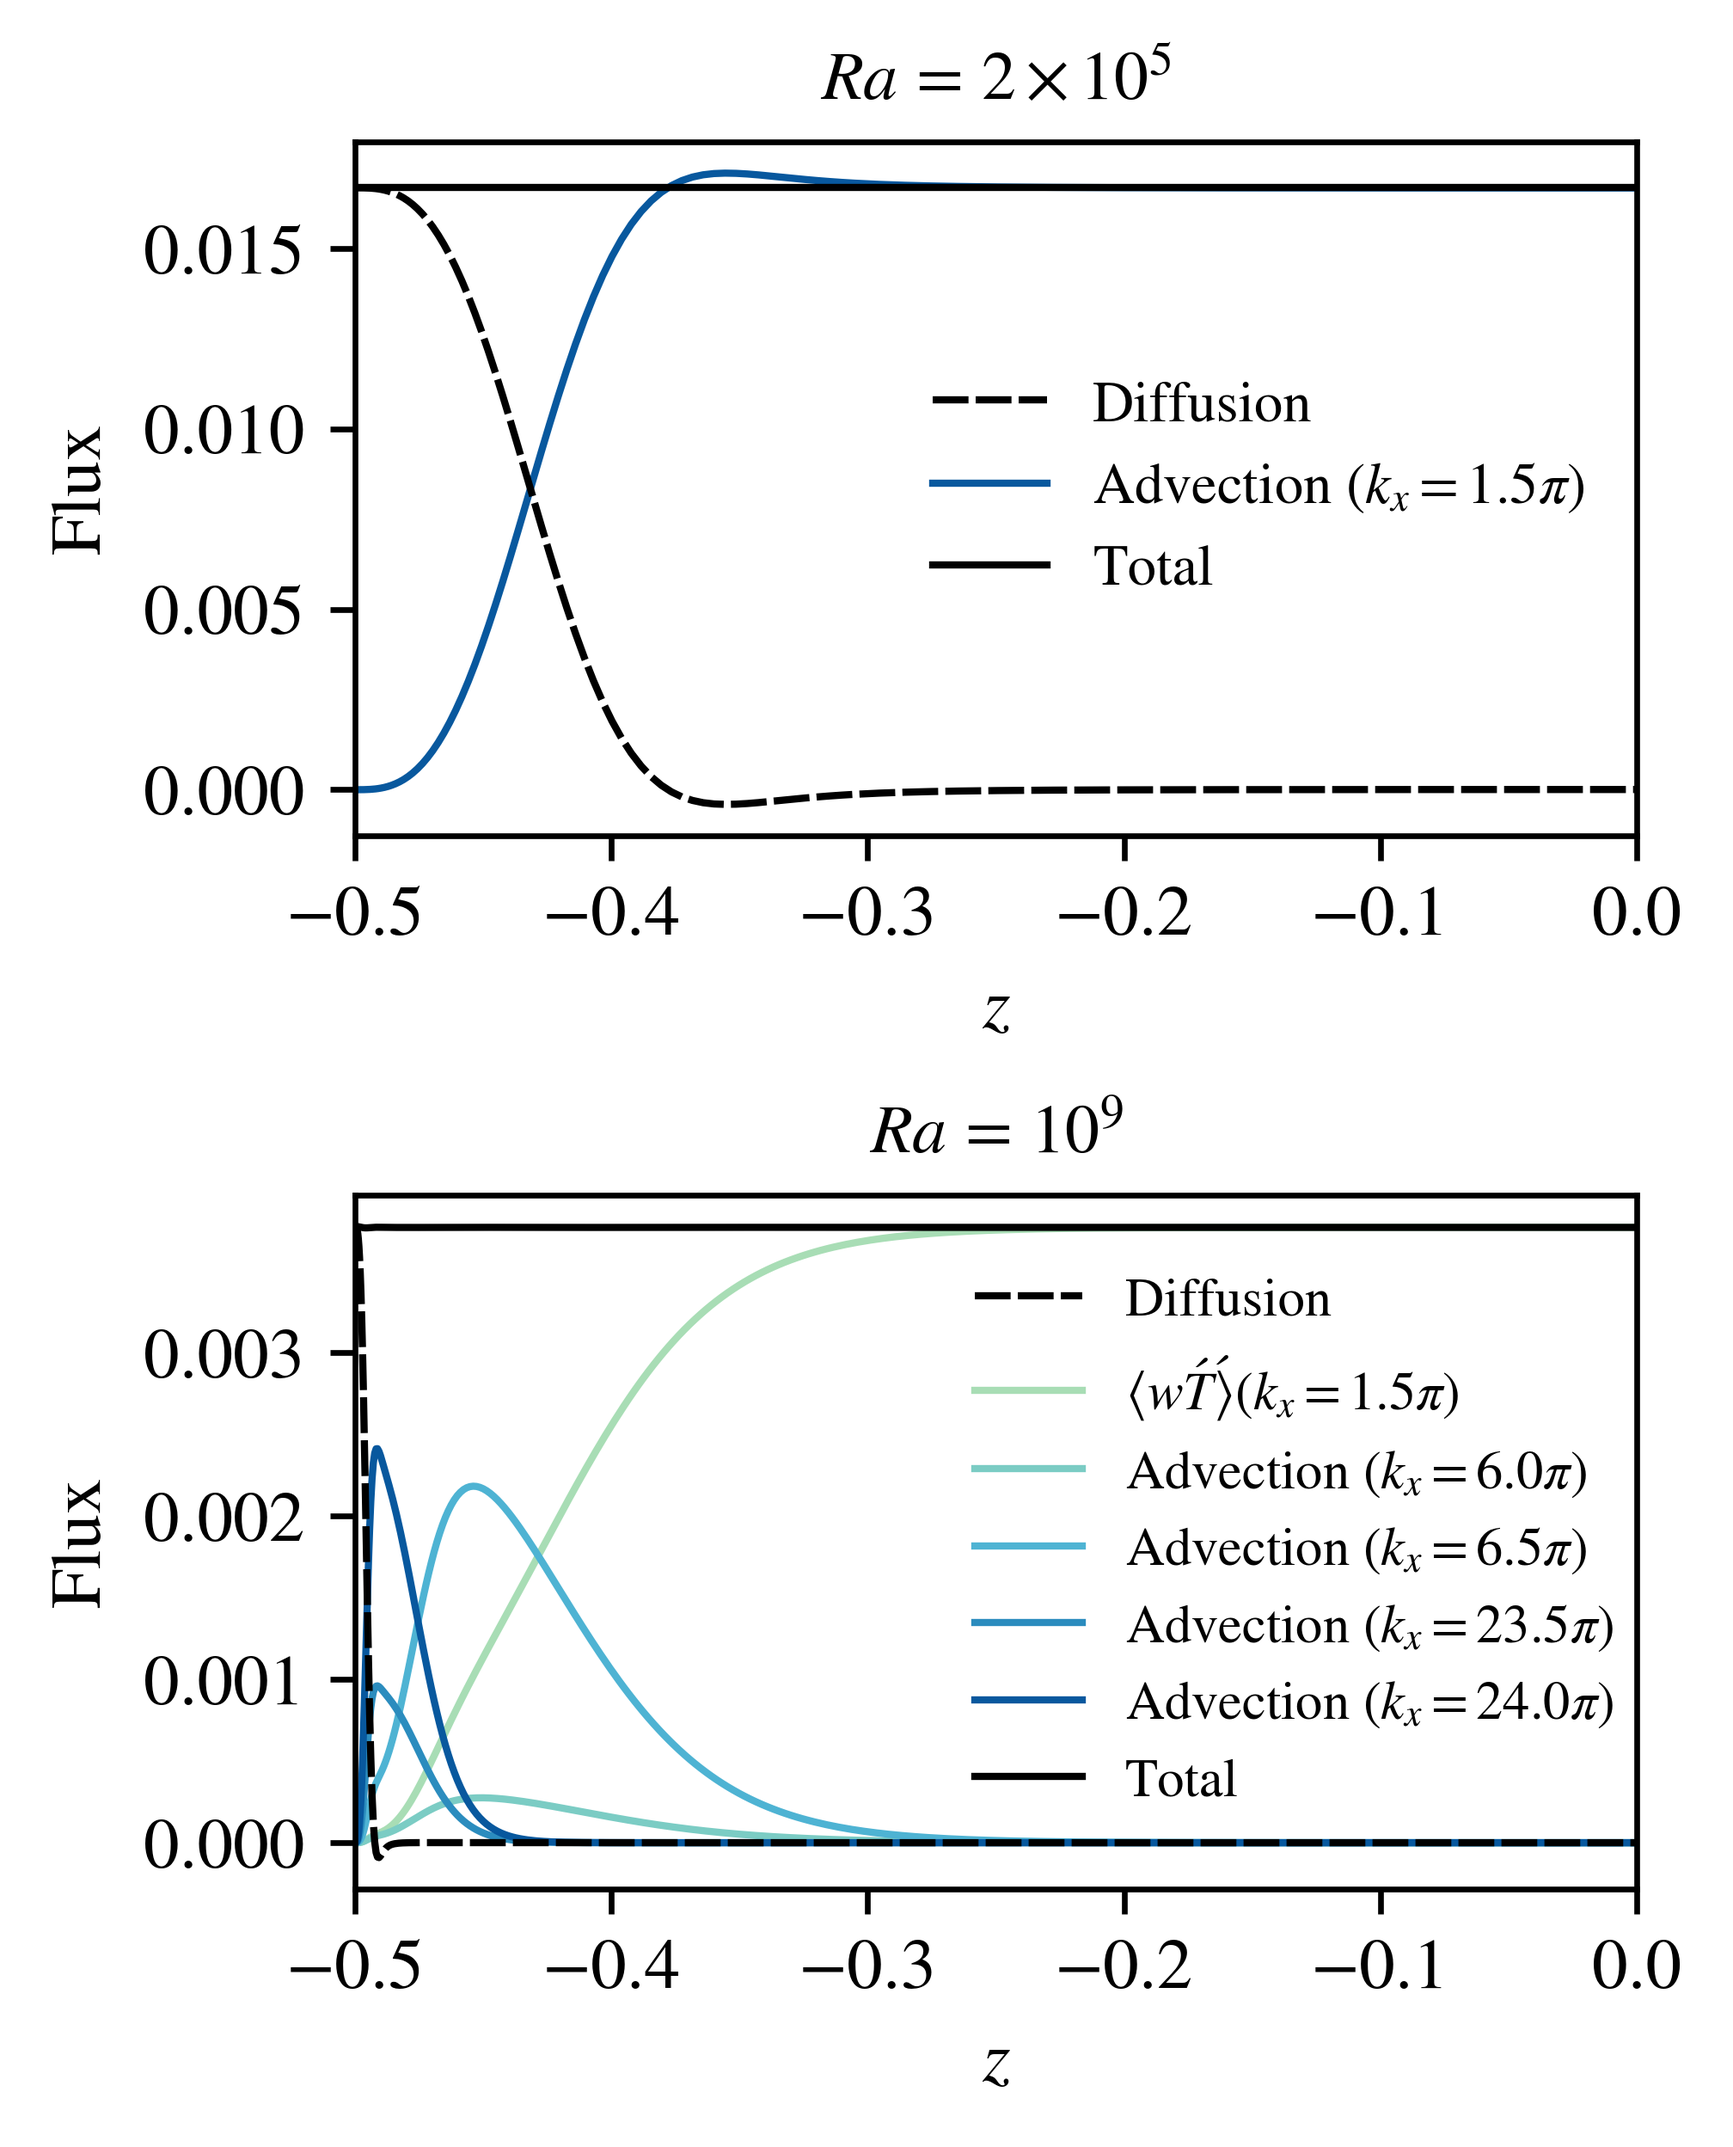
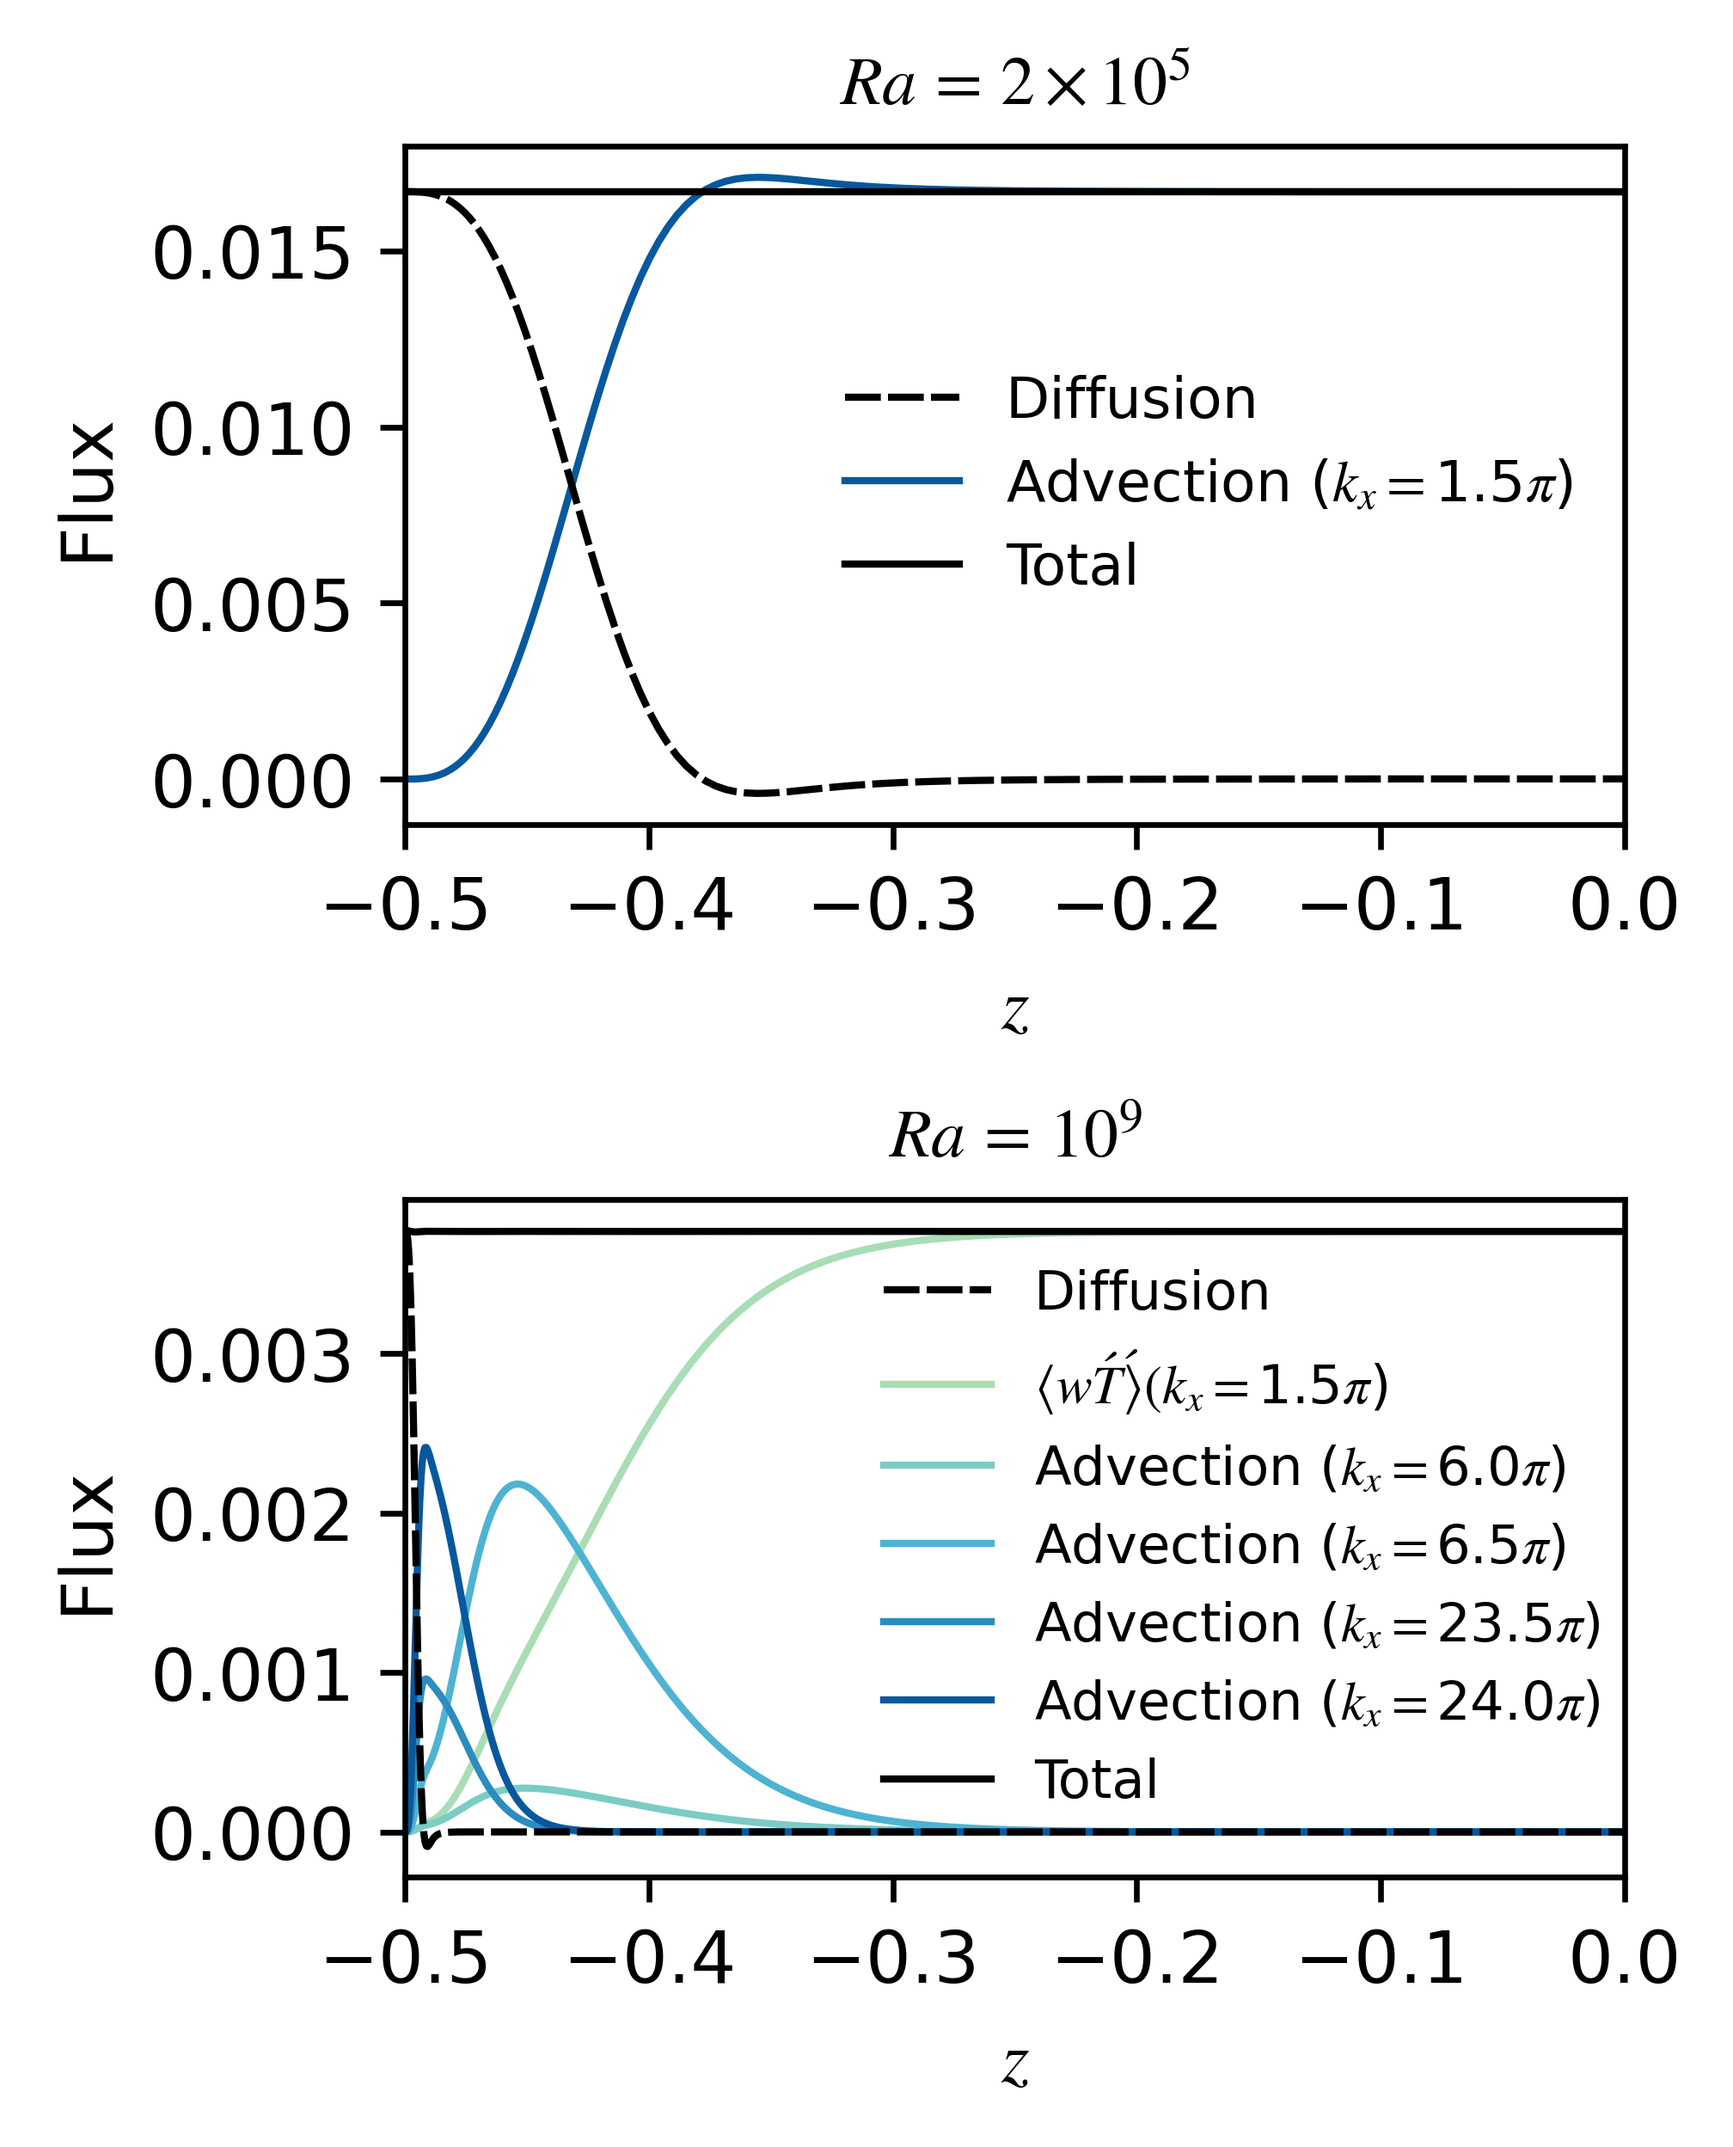
figs: font consistency

diff --git a/plot_flux.py b/plot_flux.py
@@ -65,7 +65,7 @@ def plot_flux(Rayleigh, ax, path, iteration):
         pi_mult3 = str(round(kx3/np.pi, 1))
         pi_mult4 = str(round(kx4/np.pi, 1))
         pi_mult5 = str(round(kx5/np.pi, 1))
-        ax.plot(z, advection1, label = r'$\langle w\' T\' \rangle (k_x  = $' + pi_mult1 + r'$\pi$)')
+        ax.plot(z, advection1, label = 'Advection ($k_x  = $' + pi_mult1 + '$\pi$)')
         ax.plot(z, advection2, label = 'Advection ($k_x  = $' + pi_mult2 + '$\pi$)')
         ax.plot(z, advection3, label = 'Advection ($k_x  = $' + pi_mult3 + '$\pi$)')
         ax.plot(z, advection4, label = 'Advection ($k_x  = $' + pi_mult4 + '$\pi$)')
@@ -75,7 +75,7 @@ def plot_flux(Rayleigh, ax, path, iteration):
         ax.set_yticks([0.000, 0.001, 0.002, 0.003])
         # ax.set_ylim(-0.0002, 0.0039)
         ax.legend(prop={'size': 7.5}, frameon=False, loc='center right', bbox_to_anchor=(0.52, 0.25, 0.5, 0.5))
-        ax.set_title(r'$Ra \, = \, 10^9$')
+        ax.set_title(r'$\rm{Ra} \, = \, 10^9$')
         # plt.title('Heat Flux')
         ax.set_xlabel(r'$z$')
         ax.set_ylabel('Flux')
@@ -98,7 +98,7 @@ def plot_flux(Rayleigh, ax, path, iteration):
         ax.plot(z, flux, label = 'Total', color='black')
         ax.set_xlim(-0.5, 0.0)
         ax.legend(frameon=False, loc='center right')
-        ax.set_title(r'$Ra \, = \, 2 \times  10^5$')
+        ax.set_title(r'$\rm{Ra} \, = \, 2 \times  10^5$')
         ax.set_xlabel(r'$z$')
         ax.set_ylabel('Flux')
         # plt.title('Heat Flux (Iteration ' + str(self.iteration) + ')')
@@ -131,7 +131,7 @@ plot_flux(ra2, axs[1], path2, iteration2)
 plt.subplots_adjust(right=1.0)
 # fig.text(0.00, 0.5, 'Flux', ha='center', va='center', rotation='vertical', fontsize=10)
 # plt.ylabel('Flux')
-plt.savefig(root_path + '/pubfigs/flux_sup_n1', bbox_inches='tight')
-# plt.savefig(root_path + '/publication_materials/flux_sup_n', bbox_inches='tight')
+# plt.savefig(root_path + '/pubfigs/flux_sup_n1', bbox_inches='tight')
+plt.savefig(root_path + '/publication_materials/flux_sup_n', bbox_inches='tight')
 
 

diff --git a/rbc_sim_load_ic.py b/rbc_sim_load_ic.py
@@ -135,7 +135,8 @@ if not pathlib.Path('restart.h5').exists():
     b0z_f.set_scales(1)
     b0 = b0z_f.antidifferentiate(z_basis, ('left', 0))
     b0.set_scales(evp_scale)
-    b['g'] = b0['g'] + np.sqrt(2)*(sum([exp*fields['b'][:, None][slices[1]].transpose() for (exp, fields) in exp_fields])).real + F * pert
+    b['g'] = b0['g'] + np.sqrt(2)*(sum([exp*fields['b'][:, None][slices[1]].transpose() for (exp, fields) in exp_fields])).real
+    # b['g'] = b0['g'] + np.sqrt(2)*(sum([exp*fields['b'][:, None][slices[1]].transpose() for (exp, fields) in exp_fields])).real + F * pert
     bz = b.differentiate('z')
     # plot_bot_2d(b)
     # plt.show()
@@ -180,13 +181,13 @@ solver.stop_sim_time = stop_sim_time
 # snapshots.add_task('w')
 # snapshots.add_task('u')
 
-profiles = solver.evaluator.add_file_handler('profiles_eq_p0', sim_dt=0.1, max_writes=100, mode=fh_mode)
-profiles.add_task("P*integ(dz(b) - 1, 'x') / Lx", name='diffusive_flux')
-profiles.add_task("integ(w*b, 'x') / Lx", name='adv_flux')
-profiles.add_task("integ(integ(w**2 + u**2, 'x'), 'z') / Lx", name='ke')
-profiles.add_task("integ(integ((dx(w) - uz)**2, 'x'), 'z') / Lx", name='enst')
+# profiles = solver.evaluator.add_file_handler('profiles_nonoise', sim_dt=0.1, max_writes=100, mode=fh_mode)
+# profiles.add_task("P*integ(dz(b) - 1, 'x') / Lx", name='diffusive_flux')
+# profiles.add_task("integ(w*b, 'x') / Lx", name='adv_flux')
+# profiles.add_task("integ(integ(w**2 + u**2, 'x'), 'z') / Lx", name='ke')
+# profiles.add_task("integ(integ((dx(w) - uz)**2, 'x'), 'z') / Lx", name='enst')
 
-checkpoints = solver.evaluator.add_file_handler('checkpoints_eq_p0', sim_dt=0.5, max_writes=50, mode=fh_mode)
+checkpoints = solver.evaluator.add_file_handler('checkpoints_nonoise', sim_dt=0.1, max_writes=50, mode=fh_mode)
 checkpoints.add_system(solver.state)
 # snapshots.add_task('b')
 

diff --git a/plot_ke.py b/plot_ke.py
@@ -56,6 +56,7 @@ if __name__ == "__main__":
     global path 
     path = os.path.dirname(os.path.abspath(__file__))
     write_data = False
+    plot = True
     if (write_data):
         args = docopt(__doc__)
         output_path = pathlib.Path(args['--output']).absolute()
@@ -68,7 +69,7 @@ if __name__ == "__main__":
                 if not output_path.exists():
                     output_path.mkdir()
         post.visit_writes(args['<files>'], main, output=output_path)
-    else:
+    if (plot):
         ke_data_eq = pickle.load(open(path + '/ke_data_eq2.pick', 'rb'))
         ke_data = pickle.load(open(path + '/ke_data_nom.pick', 'rb'))
 
@@ -83,6 +84,6 @@ if __name__ == "__main__":
         plt.legend(frameon=False)
         plt.xlabel(r'$t$')
         plt.ylabel(r'$\langle |\mathbf{u}|^2 \rangle_{\mathcal{D}}$')
-        plt.title(r'$Ra \, = \, 10^8$')
-        plt.savefig(path + '/publication_materials/sim_eq_ke')
+        plt.title(r'$\rm{Ra} \, = \, 10^8$')
+        plt.savefig(path + '/publication_materials/sim_eq_ke_nonoise')
         # plt.savefig(path + '/publication_materials/sim_eq_ke_p0_2')

diff --git a/publication_settings.py b/publication_settings.py
@@ -19,13 +19,15 @@ params = {#'backend': 'eps',
           'font.family':'serif',
           #'text.fontsize': 8,
           'font.size':8,
-          'font.serif': 'stix',
+          'font.serif': [],
+          'font.sans-serif': ['DejaVu Sans'],
           'mathtext.fontset' : 'stix',
+        #   'text.usetex' : True,
           'legend.fontsize': 8,
           'legend.markerscale': 1,
           'xtick.labelsize': 10,
           'ytick.labelsize': 10,
-          'text.usetex': True,
+#          'text.usetex': True,
           'figure.figsize': fig_size,
           'figure.dpi': 600,
           'lines.markersize':3,

diff --git a/plot_spectra_2ra.py b/plot_spectra_2ra.py
@@ -75,7 +75,7 @@ path = os.path.dirname(os.path.abspath(__file__))
 dir1 = path + '/RA2E5/results_conv/Iteration13597'
 dir2 = path + '/RA1E9/results/Iteration12638'
 iteration_strs_dir = [dir1, dir2]
-labels = [r'$Ra \, = \, 2 \times 10^5$', r'$Ra \, = \, 10^9$']
+labels = [r'$\rm{Ra} \, = \, 2 \times 10^5$', r'$\rm{Ra} \, = \, 10^9$']
 ev_mat = []
 for i, iteration_str in enumerate(iteration_strs_dir):
     evs = pickle.load(open(iteration_str + '/evs.pick', 'rb'))

diff --git a/plot_nu.py b/plot_nu.py
@@ -115,6 +115,6 @@ if __name__ == "__main__":
         plt.legend(frameon=False)
         plt.xlabel(r'$t$')
         plt.ylabel(r'$\mathrm{Nu}$')
-        plt.title(r'$Ra \, = \, 10^8$')
+        plt.title(r'$\rm{Ra} \, = \, 10^8$')
         # plt.savefig(path + '/pubfigs/sim_eq_nu')
         plt.savefig(path + '/publication_materials/sim_eq_nu')
